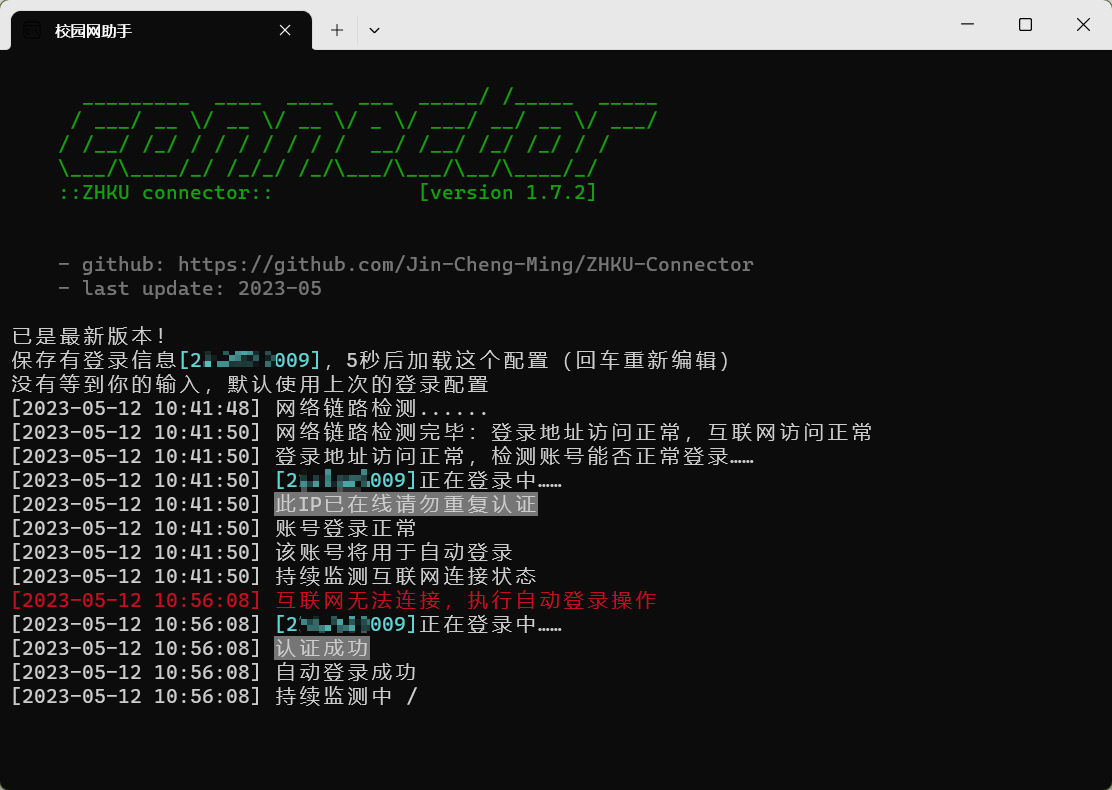
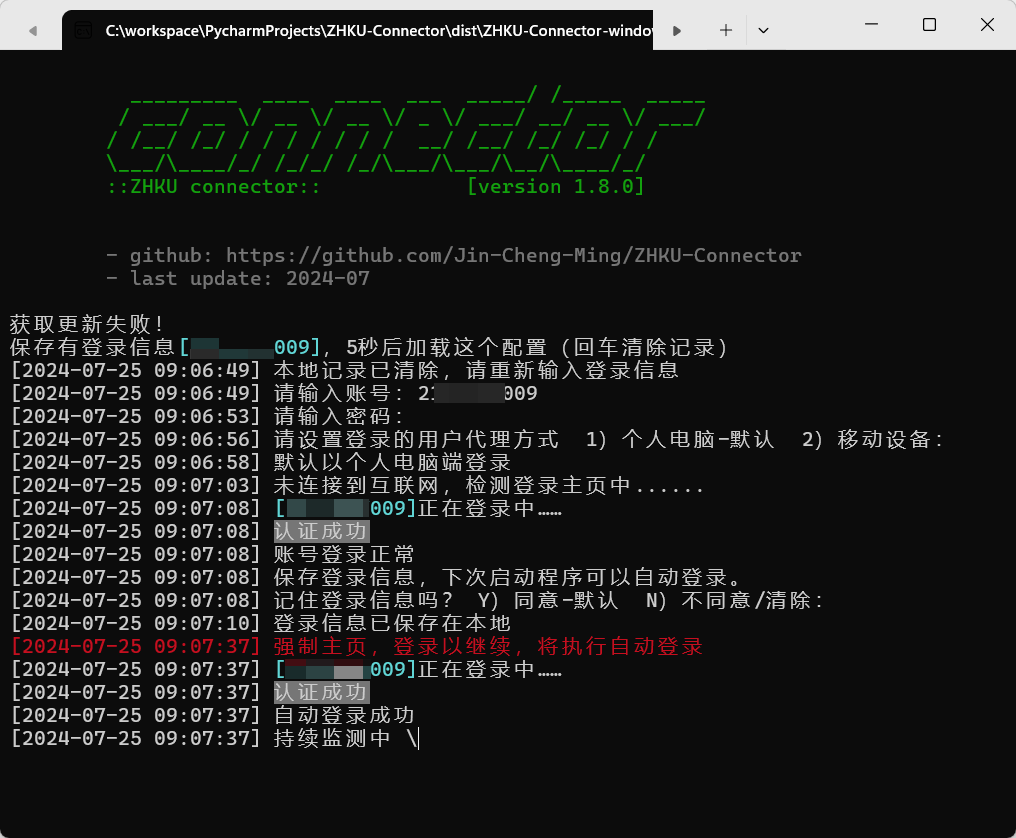
📖更新文档

diff --git a/src/Connector.py b/src/Connector.py
@@ -241,7 +241,6 @@ class Connector:
         # 更新
         Updater.fetch()
         # 获取本地记录，如果有则在等待一定时间过后自动使用
-        # 获取本地记录，如果有则在等待一定时间过后自动使用
         credentials = get_remembered_credentials()
         if credentials:
             try:

diff --git a/README.md b/README.md
@@ -9,7 +9,7 @@
 - 账号认证登录
 - 记住账号
 - 互联网连接状态监测与自动登录
-- 代理选择（电脑/手机）
+- 用户代理选择（电脑/手机）
 - 多系统兼容（Windows/Linux/Mac）
 - 内存占用低
 
@@ -26,8 +26,8 @@
 
 | 平台      | 下载                                                                                                                 | MD5                              |
 |---------|--------------------------------------------------------------------------------------------------------------------|----------------------------------|
-| Windows | [1.7.4](https://github.com/Jin-Cheng-Ming/ZHKU-Connector/releases/download/1.7.4/ZHKU-Connector-windows-1.7.4.exe) | cdffbbf890c724a89673baf716b44a1f |
-| Linux   | [1.7.4](https://github.com/Jin-Cheng-Ming/ZHKU-Connector/releases/download/1.7.4/ZHKU-Connector-Linux-1.7.4)       | 33abe6e0718d6434197ed3b248a4efa3 |
+| Windows | [1.8.0](https://github.com/Jin-Cheng-Ming/ZHKU-Connector/releases/download/1.8.0/ZHKU-Connector-windows-1.8.0.exe) | a87e94eed0e05e9b07309ffcb60df287 |
+| Linux   | [1.8.0](https://github.com/Jin-Cheng-Ming/ZHKU-Connector/releases/download/1.8.0/ZHKU-Connector-Linux-1.8.0)       | 193343d32dcff205081277e04cba3005 |
 | Mac     | 我没有苹果的设备搞不了                                                                                                        | 暂无                               |
 
 > Linux需要将下载的文件设置为可执行文件，并在终端中运行。如：`chmod +x ZHKU-Connector-Linux-1.x.x`

diff --git a/HISTORY.md b/HISTORY.md
@@ -1,3 +1,10 @@
+1.8.0 (2024-7-25):
+    
+    更新：
+        优化网络连接检测过程；
+        简化程序操作流程；
+        重构部分代码；
+
 1.7.4 (2024-4-1):
     
     更新：
